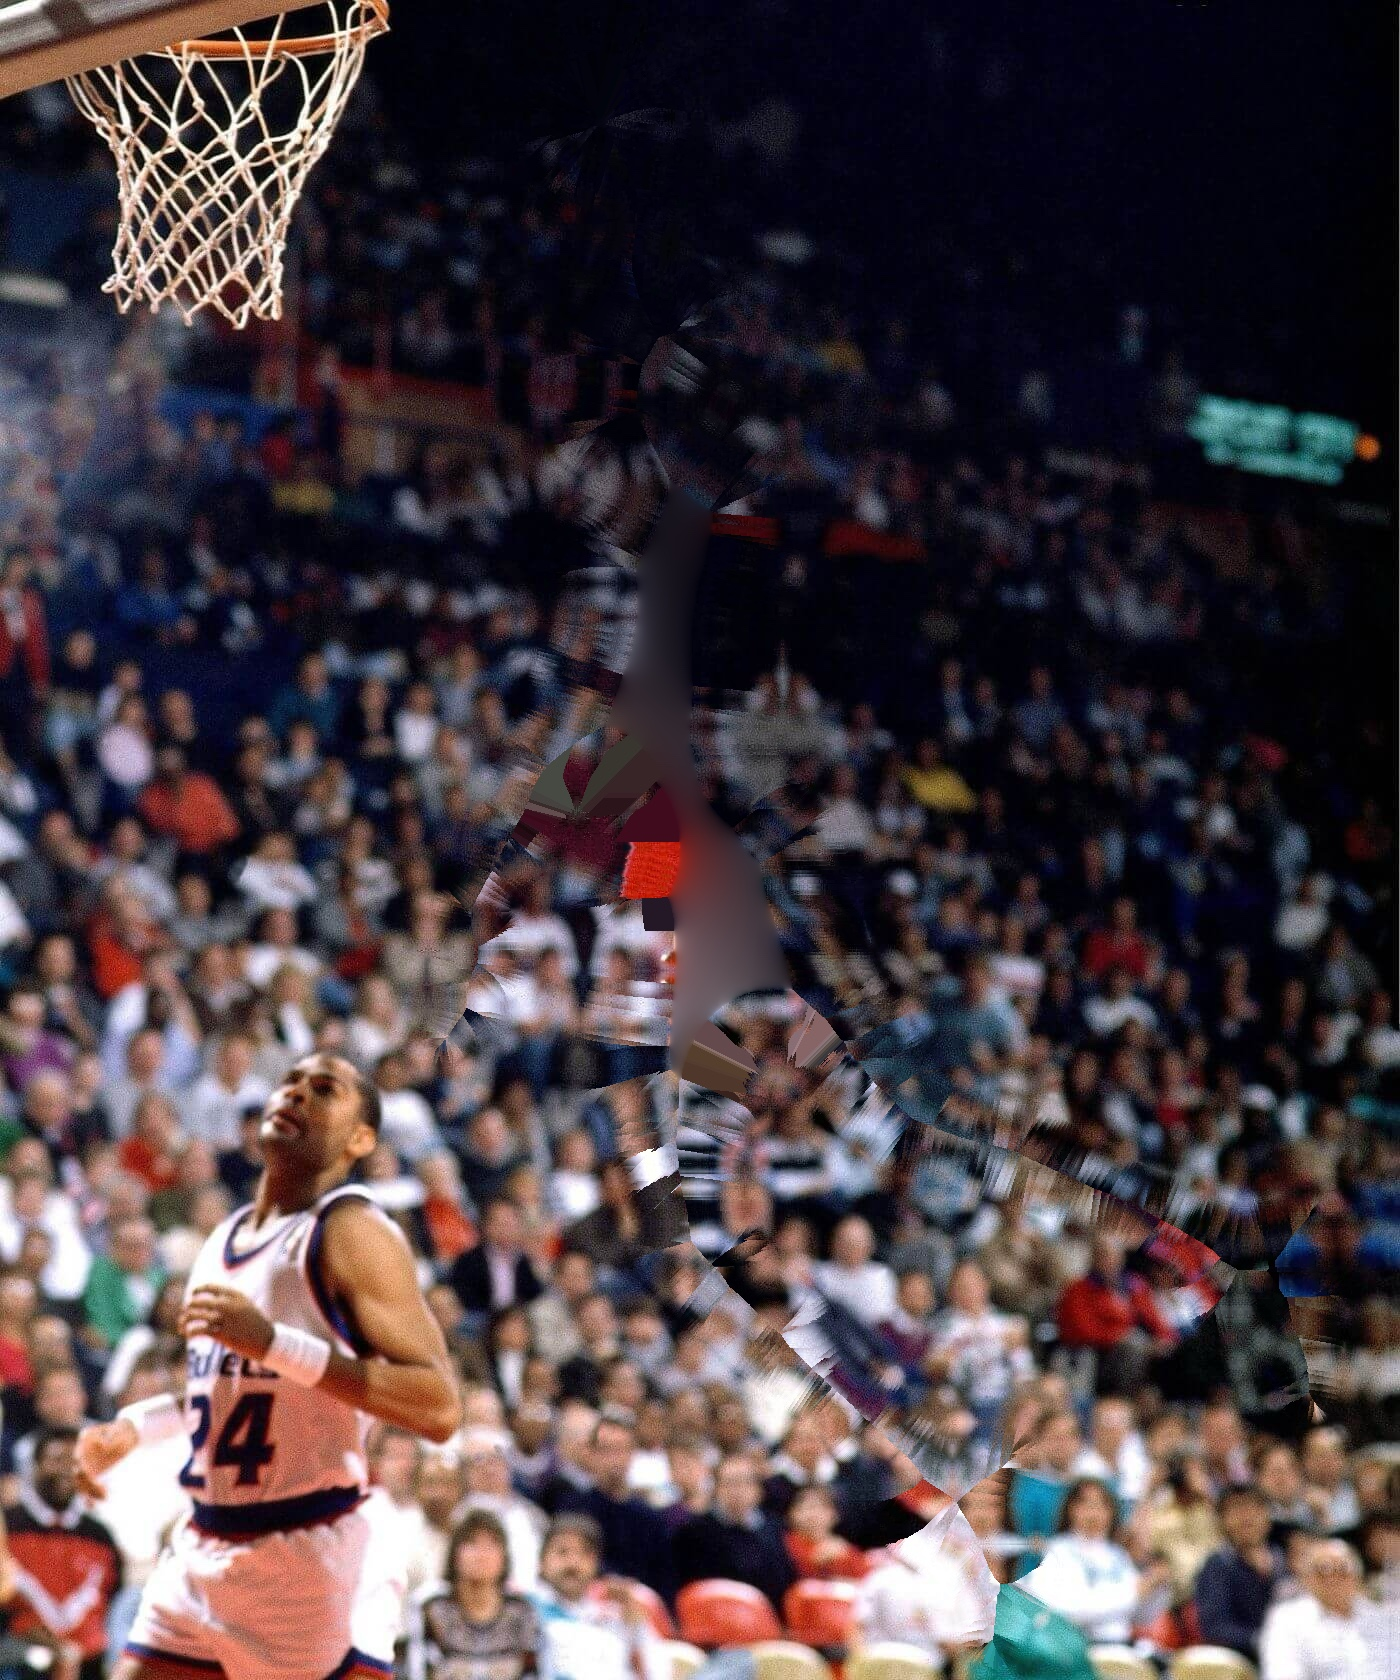
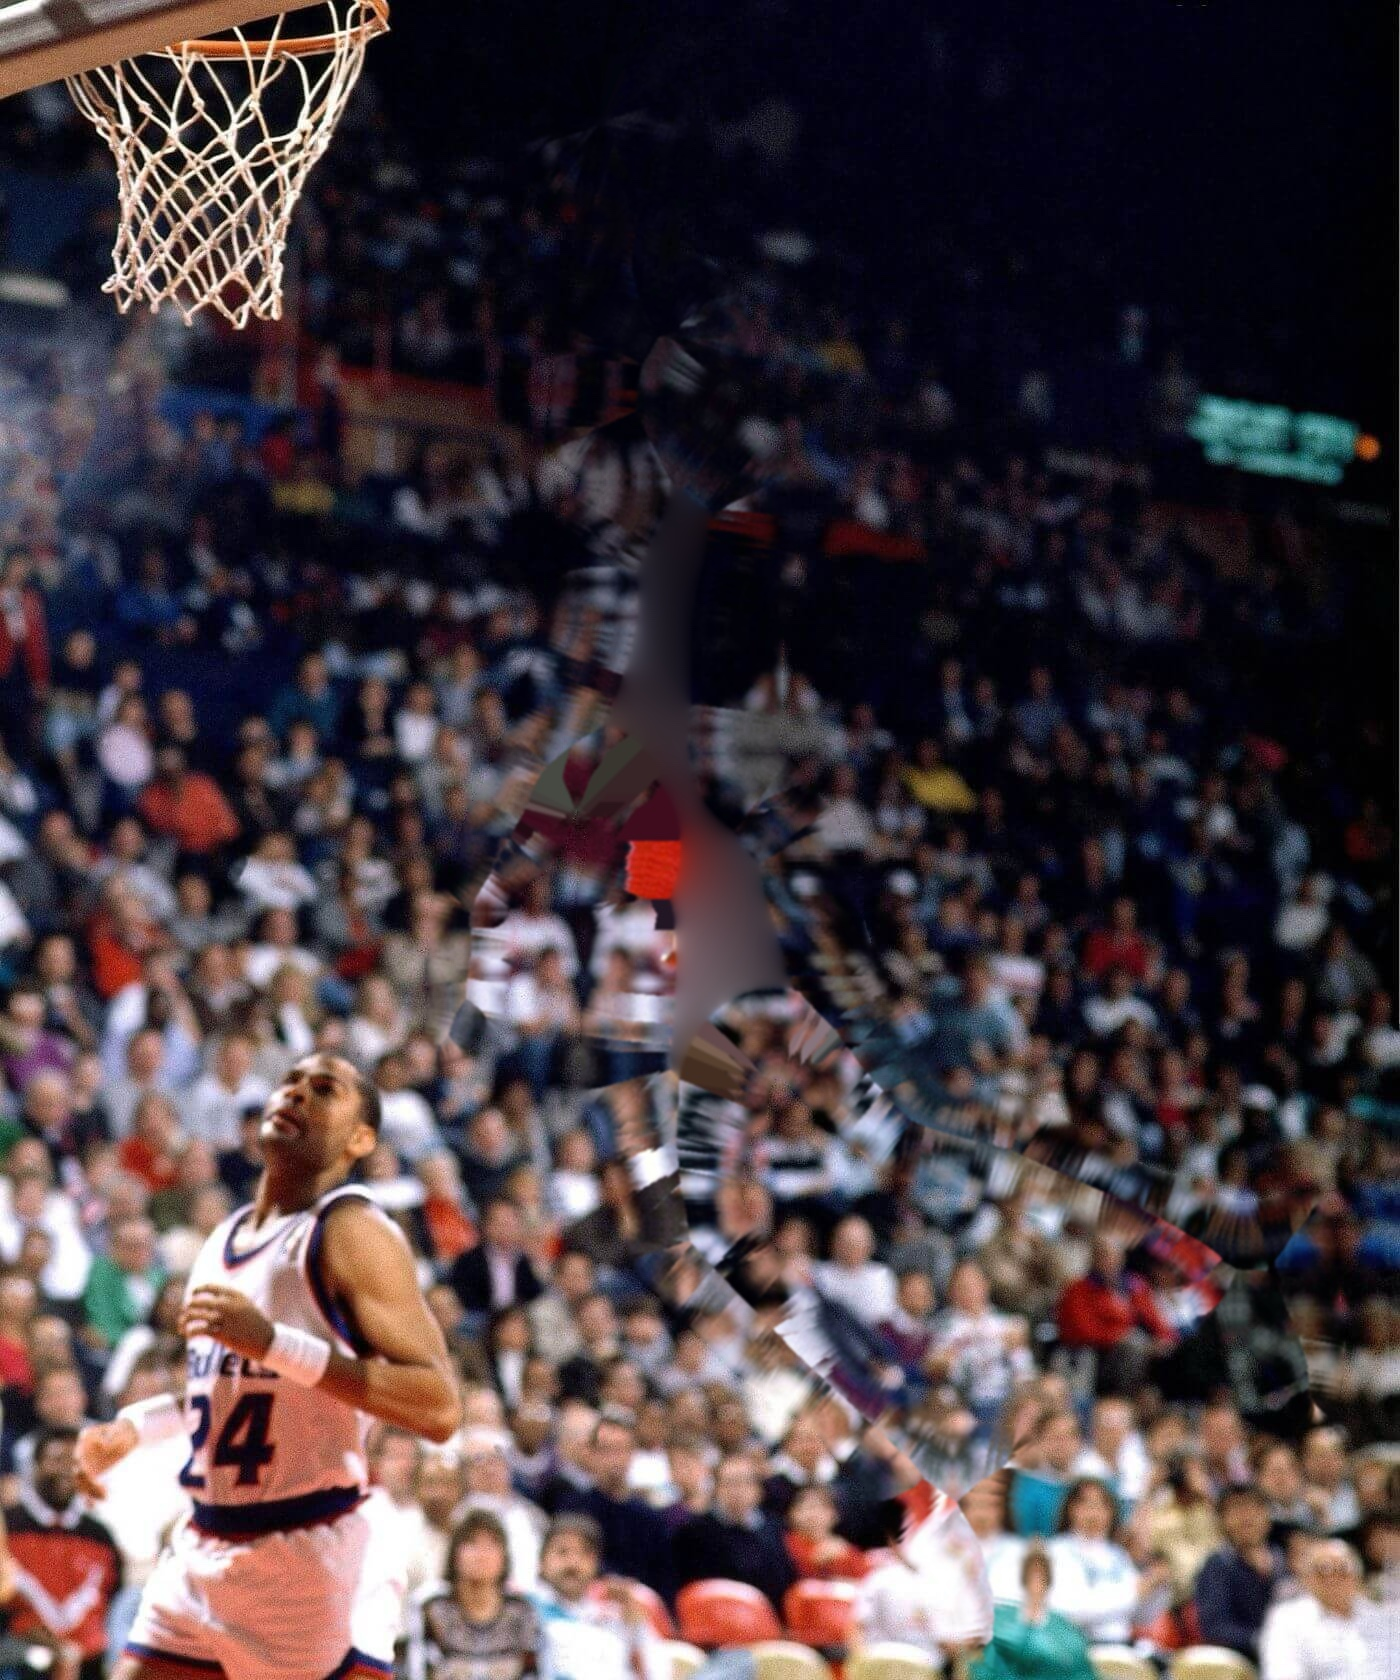
Fix two mask faults that read as rendering glitches
Both artefacts Mark spotted were the mask admitting pixels that are not the
subject; the depth was fine.

A patch of crowd travelled with his sneaker. Person segmentation lights up
spectators too, and near his legs some sat close enough to the instance mask to
pass --hero-fill. Real depth now vets those additions: a genuine part of him
reads at subject depth, a spectator behind him does not. Hero-fill additions
drop from 0.27% of the frame to 0.08%, and near the feet from ~1700 px to ~250.

A hard-edged blob sat around the thumb, which was --patch with the skin gate
switched off back when the mask was the only source of depth: an ungated ellipse
takes crowd wholesale. The gate is on again, with interior pinholes closed by
taking pixels whose neighbours are nearly all inside, so the digit fills without
growing outward.

Also softened the fill: the mirror fill's nearest-pixel field is a two-sweep
approximation, so adjacent hole pixels can reflect through different boundary
points and copy unrelated places, which magnified reads as a blocky staircase in
the revealed band. --fill-smooth box-blurs filled pixels only.

Adds --provenance, writing mask sources to separate channels (red instance,
green hero-fill, blue patch), which is what located both faults.

diff --git a/tools/SplitLayers.swift b/tools/SplitLayers.swift
@@ -27,11 +27,12 @@ func fail(_ msg: String) -> Never {
 // ------------------------------------------------------------------- options
 
 var input = "", bgOut = "", spriteOut = "", maskOut = "", depthOut = ""
-var depthIn = "", bgDepthOut = ""
+var depthIn = "", bgDepthOut = "", provOut = ""
 var subjThresh: Float = 0.45   // model depth below this, inside the mask, is
                                // treated as a hole and filled from neighbours
 var depthSmooth: Float = 4     // px blur on the subject depth field
 var bgDepthSmooth: Float = 10  // px blur on the background depth field
+var fillSmooth = 2             // box-blur passes over filled pixels only
 var base: Float = 0.86     // the subject's overall depth
 var bulge: Float = 0.12    // how much rounder the core reads than the edges
 var tilt: Float = 0.14     // linear spread across the subject
@@ -57,12 +58,14 @@ while let flag = args.first {
   case "--bg":      bgOut = value()
   case "--sprite":  spriteOut = value()
   case "--mask":    maskOut = value()
+  case "--provenance": provOut = value()   // debug: R=instance G=hero-fill B=patch
   case "--depth":   depthOut = value()
   case "--depth-in":  depthIn = value()     // real depth from the monocular model
   case "--bg-depth":  bgDepthOut = value()
   case "--subj-thresh": subjThresh = Float(value()) ?? subjThresh
   case "--depth-smooth":    depthSmooth = Float(value()) ?? depthSmooth
   case "--bg-depth-smooth": bgDepthSmooth = Float(value()) ?? bgDepthSmooth
+  case "--fill-smooth":     fillSmooth = Int(value()) ?? fillSmooth
   case "--base":    base = Float(value()) ?? base
   case "--bulge":   bulge = Float(value()) ?? bulge
   case "--tilt":    tilt = Float(value()) ?? tilt
@@ -164,9 +167,27 @@ let maskImage = CIImage(cvPixelBuffer: maskBuffer).transformed(by: CGAffineTrans
   scaleX: CGFloat(W) / CGFloat(CVPixelBufferGetWidth(maskBuffer)),
   y: CGFloat(H) / CGFloat(CVPixelBufferGetHeight(maskBuffer))))
 
+// Loaded before the mask is assembled: real depth is the best available check
+// on whether a pixel we are about to *add* to the subject really belongs to it.
+var predicted: [UInt8] = []
+if !depthIn.isEmpty {
+  guard let dSrc = CGImageSourceCreateWithURL(URL(fileURLWithPath: depthIn) as CFURL, nil),
+        let dCG = CGImageSourceCreateImageAtIndex(dSrc, 0, nil) else {
+    fail("could not read \(depthIn)")
+  }
+  predicted = greyBytes(CIImage(cgImage: dCG).transformed(by: CGAffineTransform(
+    scaleX: CGFloat(W) / CGFloat(dCG.width), y: CGFloat(H) / CGFloat(dCG.height))))
+}
+
 let instanceRaw = greyBytes(maskImage)
 var subject = [UInt8](repeating: 0, count: W * H)
-for i in 0..<(W * H) { subject[i] = instanceRaw[i] >= 128 ? 255 : 0 }
+var fromInstance = [UInt8](repeating: 0, count: W * H)
+var fromHeroFill = [UInt8](repeating: 0, count: W * H)
+var fromPatch = [UInt8](repeating: 0, count: W * H)
+for i in 0..<(W * H) {
+  subject[i] = instanceRaw[i] >= 128 ? 255 : 0
+  fromInstance[i] = subject[i]
+}
 
 // Thin extremities Vision drops, accepted only near the existing mask.
 if heroFill > 0, let pObs = persons.results?.first {
@@ -174,8 +195,21 @@ if heroFill > 0, let pObs = persons.results?.first {
   let personRaw = greyBytes(pci.transformed(by: CGAffineTransform(
     scaleX: CGFloat(W) / pci.extent.width, y: CGFloat(H) / pci.extent.height)))
   let nearHero = greyBytes(blurred(maskImage, heroFill / 1.5))
+  // Person segmentation lights up the crowd as well as the hero, and near his
+  // legs and feet there are spectators close enough to the mask to qualify. On
+  // this frame that pulled in a patch of crowd that then travelled with his
+  // sneaker. Real depth settles it: a genuine part of him reads at subject
+  // depth, a spectator behind him does not.
+  var vetoed = 0
   for i in 0..<(W * H) where subject[i] < 128 {
-    if nearHero[i] >= 13 && Float(personRaw[i]) / 255.0 >= heroThresh { subject[i] = 255 }
+    guard nearHero[i] >= 13 && Float(personRaw[i]) / 255.0 >= heroThresh else { continue }
+    if !predicted.isEmpty && Float(predicted[i]) / 255.0 < subjThresh { vetoed += 1; continue }
+    subject[i] = 255; fromHeroFill[i] = 255
+  }
+  if vetoed > 0 {
+    FileHandle.standardError.write(
+      String(format: "hero-fill: %.2f%% of frame vetoed by depth\n",
+             Double(vetoed) / Double(W * H) * 100).data(using: .utf8)!)
   }
 }
 
@@ -183,6 +217,7 @@ if heroFill > 0, let pObs = persons.results?.first {
 if !patches.isEmpty {
   let photo = rgbaBytes(cgImage)
   for patch in patches {
+    var inPatch = [Bool](repeating: false, count: W * H)
     let cx = patch.cx * Float(W), cy = patch.cy * Float(H)
     let rx = max(patch.rx * Float(W), 1), ry = max(patch.ry * Float(H), 1)
     for y in max(0, Int(cy - ry))...min(H - 1, Int(cy + ry)) {
@@ -190,11 +225,36 @@ if !patches.isEmpty {
         let nx = (Float(x) - cx) / rx, ny = (Float(y) - cy) / ry
         if nx * nx + ny * ny > 1 { continue }
         let i = y * W + x
+        inPatch[i] = true
         if subject[i] > 127 { continue }
         let r = Int(photo[i*4]), g = Int(photo[i*4+1]), b = Int(photo[i*4+2])
-        let isSkin = r > 80 && r >= g && g >= b && (r - b) > 18
-        if !patch.skin || isSkin { subject[i] = 255 }
+        let isSkin = r > 80 && r >= g && g >= b && (r - b) > 14
+        if !patch.skin || isSkin { subject[i] = 255; fromPatch[i] = 255 }
       }
+    }
+
+    // Close interior holes only. A gated patch skips a lit highlight on the
+    // digit because the specular reads as washed out, leaving pinholes; taking
+    // any pixel whose neighbours are nearly all inside fills those without
+    // growing the region outward into the crowd, which is what an ungated
+    // ellipse did — it travelled with the hand as a hard-edged blob.
+    for _ in 0..<3 {
+      var add: [Int] = []
+      for y in 1..<(H - 1) {
+        for x in 1..<(W - 1) {
+          let i = y * W + x
+          guard inPatch[i] && subject[i] < 128 else { continue }
+          var n = 0
+          for dy in -1...1 {
+            for dx in -1...1 where !(dx == 0 && dy == 0) {
+              if subject[(y + dy) * W + (x + dx)] > 127 { n += 1 }
+            }
+          }
+          if n >= 6 { add.append(i) }
+        }
+      }
+      if add.isEmpty { break }
+      for i in add { subject[i] = 255; fromPatch[i] = 255 }
     }
   }
 }
@@ -376,6 +436,34 @@ func pyramidFill(colour: [Float], weight: [Float]) -> [Float] {
   return levels[0].colour
 }
 
+/// Softens filled pixels only, leaving real photography untouched.
+///
+/// The nearest-known-pixel field comes from a two-sweep approximation, so
+/// neighbouring hole pixels can reflect through different boundary points and
+/// copy from unrelated places. Magnified, that reads as a blocky staircase in
+/// the revealed band. A couple of box-blur passes restricted to the filled
+/// region knock the steps down while keeping enough grain to pass as crowd.
+func smoothFilled(_ colour: inout [Float], filledMask: [Bool], passes: Int) {
+  guard passes > 0 else { return }
+  for _ in 0..<passes {
+    var next = colour
+    for y in 1..<(H - 1) {
+      for x in 1..<(W - 1) {
+        let i = y * W + x
+        guard filledMask[i] else { continue }
+        for k in 0..<3 {
+          var sum: Float = 0
+          for dy in -1...1 {
+            for dx in -1...1 { sum += colour[((y + dy) * W + (x + dx)) * 3 + k] }
+          }
+          next[i*3+k] = sum / 9
+        }
+      }
+    }
+    colour = next
+  }
+}
+
 // ------------------------------------------------------------------- outputs
 
 let photo = rgbaBytes(cgImage)
@@ -393,11 +481,13 @@ for i in 0..<(W * H) {
 }
 let unknownPct = Double(bgWeight.reduce(0) { $0 + ($1 < 1 ? 1 : 0) }) / Double(W * H) * 100
 FileHandle.standardError.write(String(format: "filling %.1f%% of the plate\n", unknownPct).data(using: .utf8)!)
+let wasFilled = bgWeight.map { $0 < 1 }
 mirrorFill(colour: &bgColour, weight: &bgWeight, photo: photo, maxDist: extend)
 let stillUnknown = Double(bgWeight.reduce(0) { $0 + ($1 < 1 ? 1 : 0) }) / Double(W * H) * 100
 FileHandle.standardError.write(String(format: "%.1f%% left for the pyramid (never revealed)\n",
                                       stillUnknown).data(using: .utf8)!)
-let bgFilled = pyramidFill(colour: bgColour, weight: bgWeight)
+var bgFilled = pyramidFill(colour: bgColour, weight: bgWeight)
+smoothFilled(&bgFilled, filledMask: wasFilled, passes: fillSmooth)
 
 // Sprite alpha: erode a touch so crowd pixels caught by the mask edge do not
 // ride along, then feather.
@@ -468,13 +558,6 @@ writeRGBA(spriteBytes, to: spriteOut)
 //
 // Both use the fills already built for colour.
 if !depthIn.isEmpty {
-  guard let dSrc = CGImageSourceCreateWithURL(URL(fileURLWithPath: depthIn) as CFURL, nil),
-        let dCG = CGImageSourceCreateImageAtIndex(dSrc, 0, nil) else {
-    fail("could not read \(depthIn)")
-  }
-  let predicted = greyBytes(CIImage(cgImage: dCG).transformed(by: CGAffineTransform(
-    scaleX: CGFloat(W) / CGFloat(dCG.width), y: CGFloat(H) / CGFloat(dCG.height))))
-
   // the fill helpers work on rgb, so carry depth in all three channels
   /// `requireForeground` additionally rejects model depth that reads as
   /// background *inside* the subject mask. The model loses thin, low-contrast
@@ -599,6 +682,22 @@ if !maskOut.isEmpty {
   var m = [UInt8](repeating: 0, count: W * H * 4)
   for i in 0..<(W * H) { for k in 0..<3 { m[i*4+k] = alphaSoft[i] }; m[i*4+3] = 255 }
   writeRGBA(m, to: maskOut)
+}
+
+if !provOut.isEmpty {
+  var m = [UInt8](repeating: 0, count: W * H * 4)
+  var counts = [0, 0, 0]
+  for i in 0..<(W * H) {
+    m[i*4] = fromInstance[i]; m[i*4+1] = fromHeroFill[i]; m[i*4+2] = fromPatch[i]
+    m[i*4+3] = 255
+    if fromInstance[i] > 0 { counts[0] += 1 }
+    if fromHeroFill[i] > 0 { counts[1] += 1 }
+    if fromPatch[i] > 0 { counts[2] += 1 }
+  }
+  writeRGBA(m, to: provOut)
+  let pc = counts.map { String(format: "%.2f%%", Double($0) / Double(W * H) * 100) }
+  FileHandle.standardError.write(
+    "provenance — instance \(pc[0]), hero-fill \(pc[1]), patch \(pc[2])\n".data(using: .utf8)!)
 }
 
 print("wrote \(bgOut) and \(spriteOut)" + (maskOut.isEmpty ? "" : " and \(maskOut)"))
